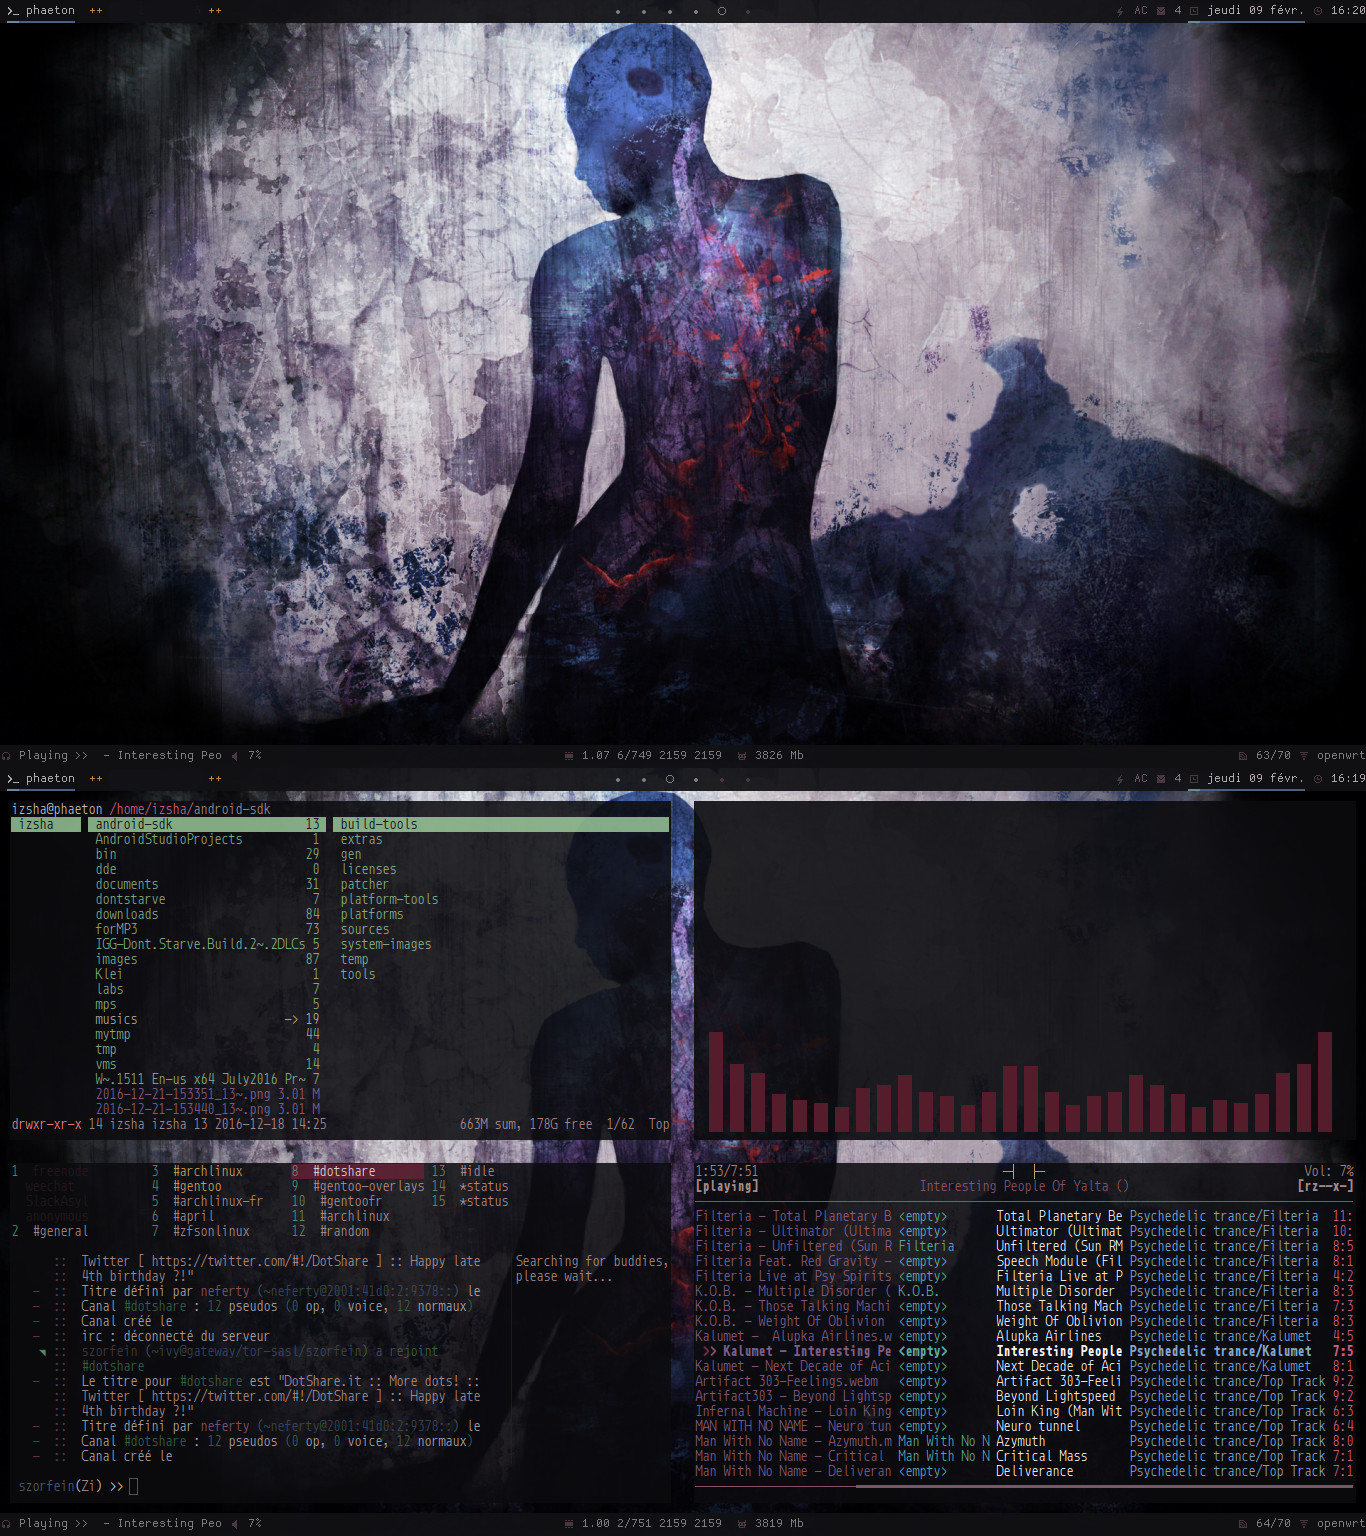
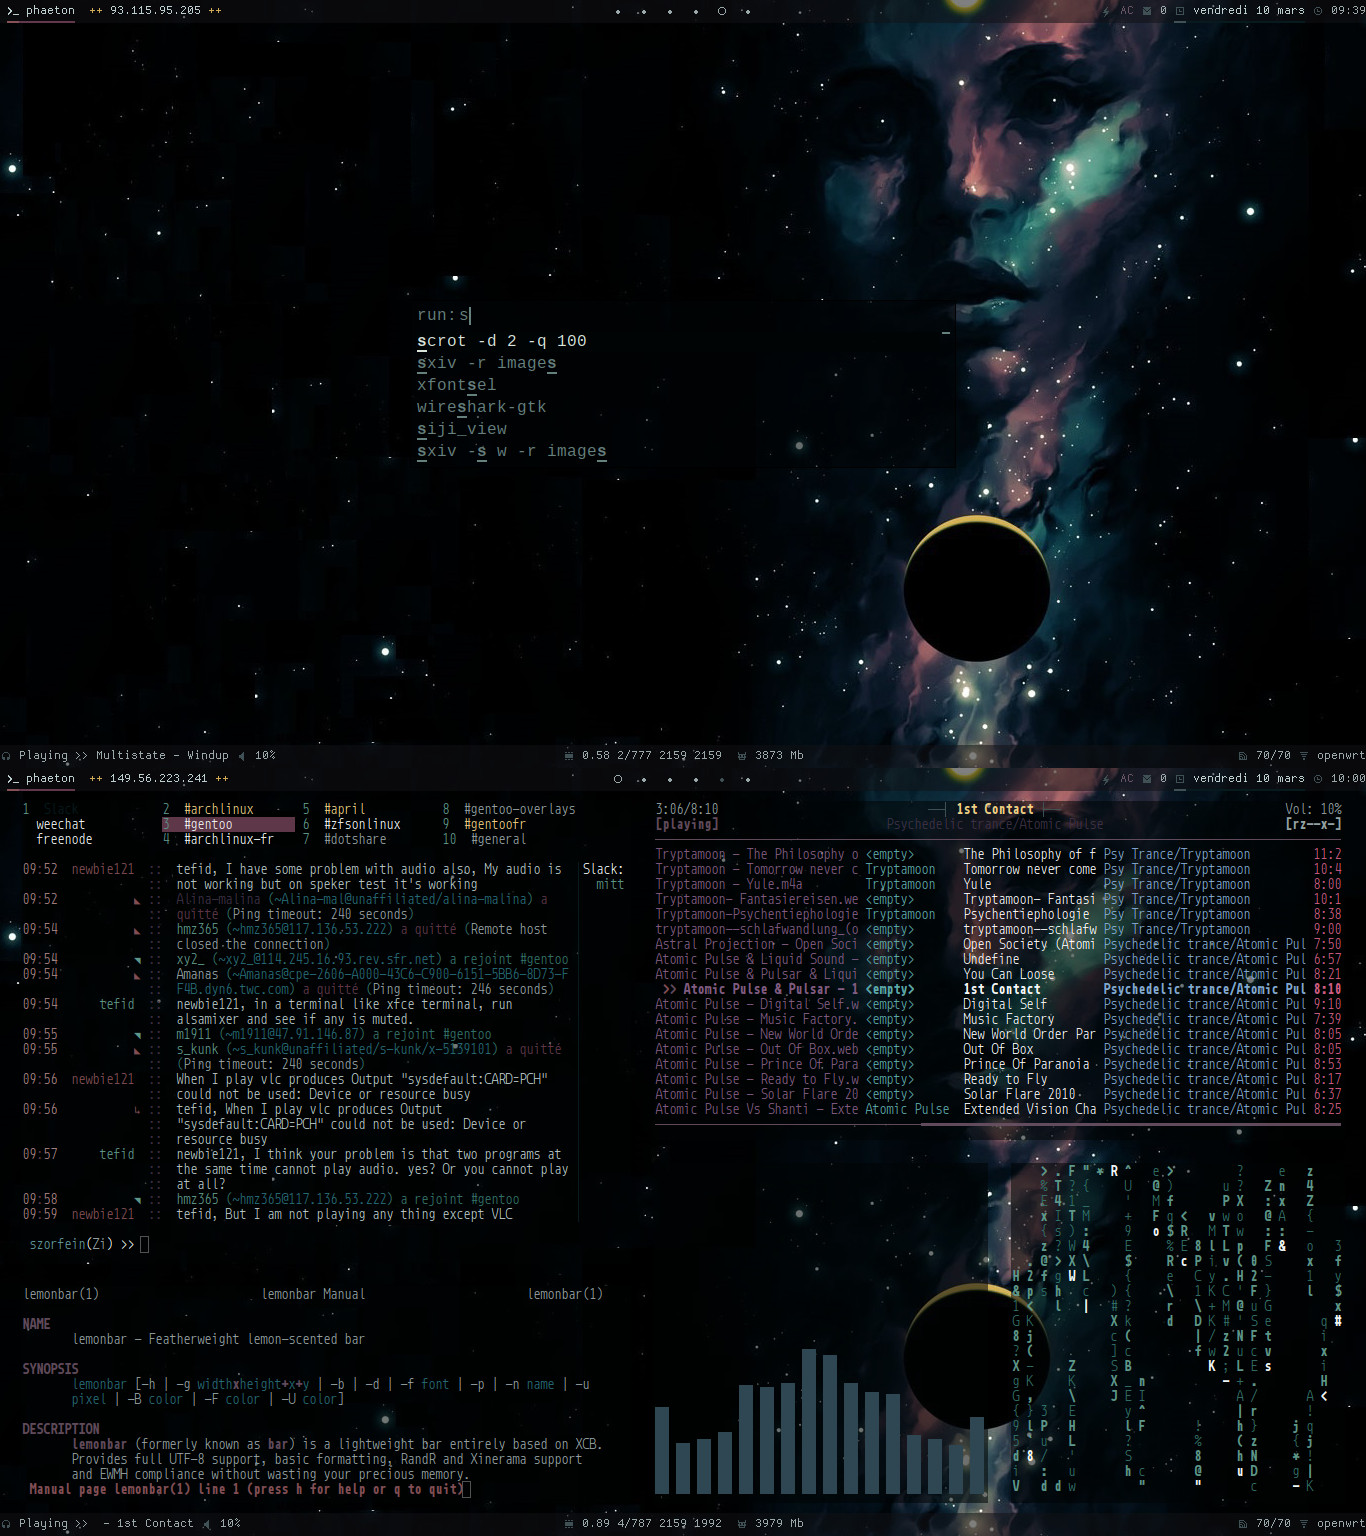
desktop Sci 03.10.2017

diff --git a/README.md b/README.md
@@ -3,16 +3,16 @@
 * on [Reddit](https://www.reddit.com/user/szorfein/submitted/)
 * on [Imgur](https://szorfein1.imgur.com/)
 
-## Requirements for bspwm...
+## Requirements for this desktop...
 
 + termite - virtual terminal
 + rofi - for run programs
 + lemonbar - top bar
-+ Noto font for GTK app & Monoid for terminal
++ monoid for terminal
 + hsetroot - for set wallpaper
 + compton - minimal shadows / transparency of windows
 + xdo - small utility to perform elementary actions on windows
-+ wallpaper - [Imgur](http://imgur.com/PkmNwoR)
++ wallpaper - [Imgur](http://i.imgur.com/L8iFcs7.jpg)
 
 ## Requirements for lemonbar
 
